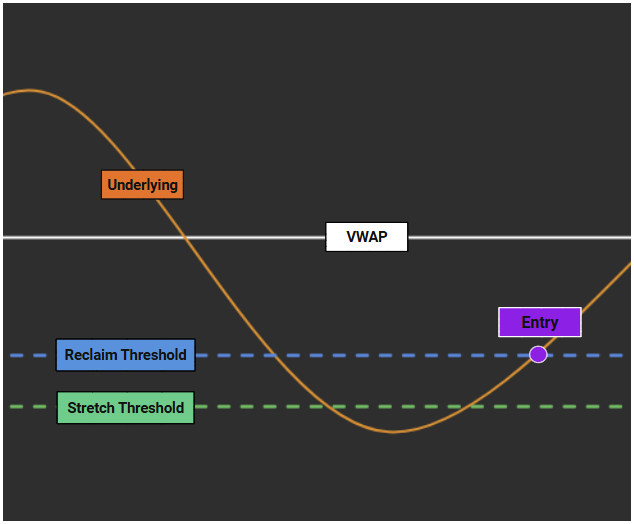
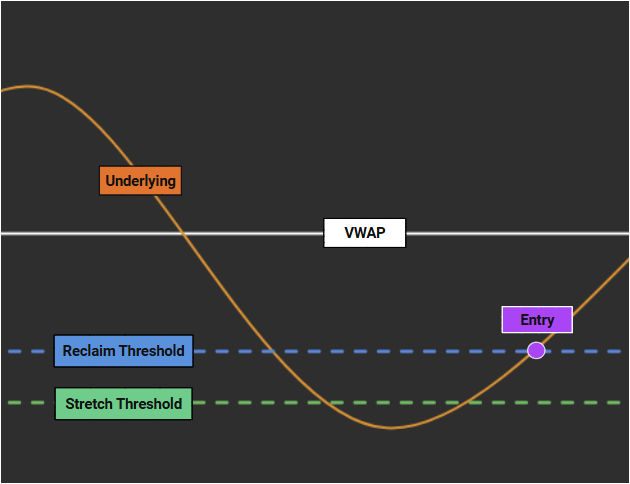
root readme update
Updated visual

Changed region(s): [[0.0, 0.0, 1.0, 1.0], [0.573, 0.8678, 0.6937, 0.8988]]

diff --git a/README.md b/README.md
@@ -6,7 +6,9 @@
 
 ## Introduction
 
-![VWAP Relclaim Visual](optimize/artifacts/vwap_reclaim_visual.png)
+<p align="center">
+  <img src="optimize/artifacts/vwap_reclaim_visual.png" alt="VWAP Reclaim Visual" width="500">
+</p>
 
 An intraday options backtesting framework - built around VWAP stretch-and-reclaim signals. Built with clean boundaries for data, signals, option selection, exits, and reporting.
 
